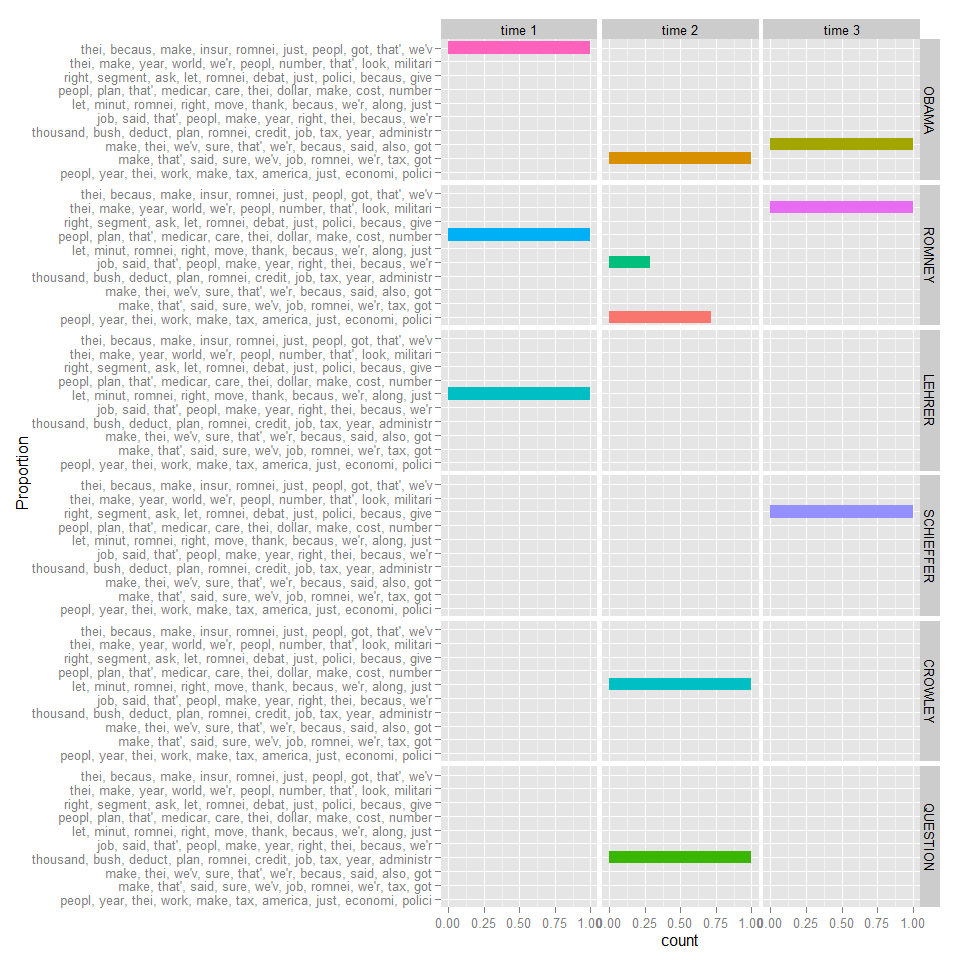
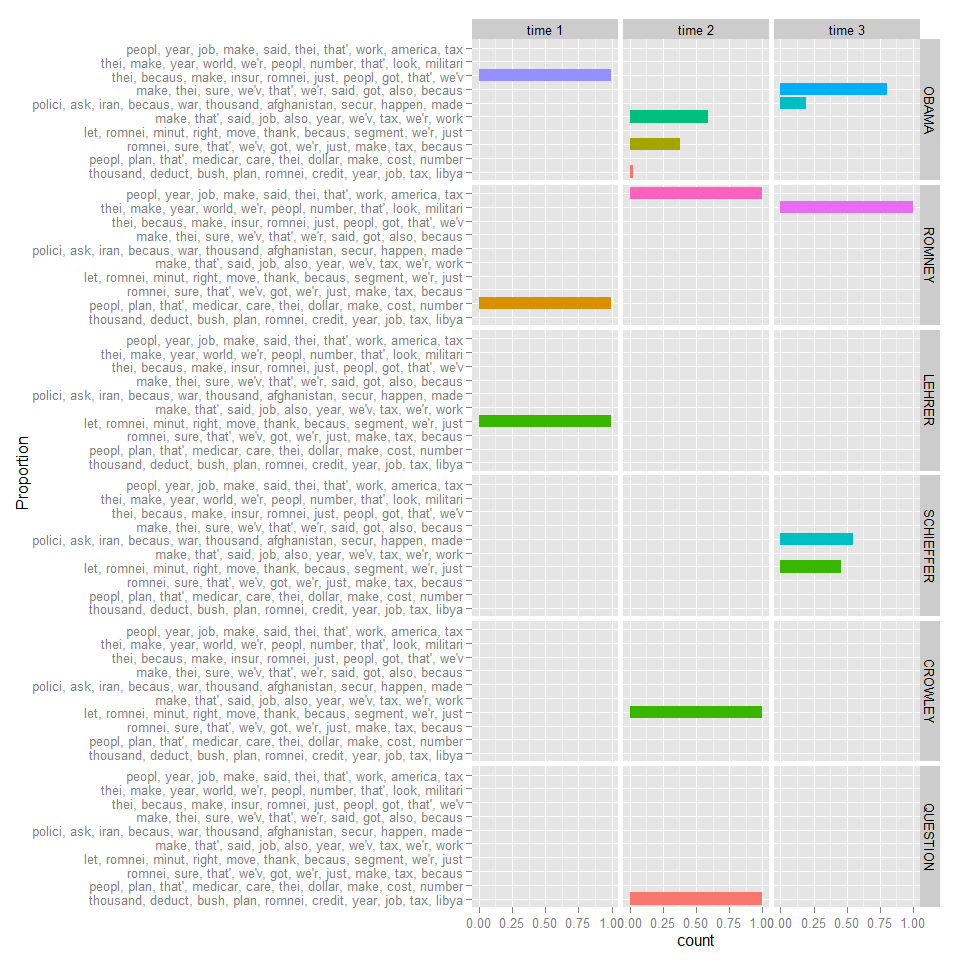
set seed example for reproducibility

Changed region(s): [[0.0312, 0.0, 0.9688, 1.0], [0.6875, 0.0312, 0.75, 0.0625]]

diff --git a/README.md b/README.md
@@ -333,7 +333,7 @@ parameters/hyper-parameters are selected with little regard to analysis.
         prep_stopwords() 
 
     ## Create the DocumentTermMatrix
-    doc_term_mat <- pres_debates2012 %>%
+    doc_term_mat <- presidential_debates_2012 %>%
         with(q_dtm_stem(dialogue, paste(person, time, sep = "_"))) %>%           
         remove_stopwords(stops) %>%                                                    
         filter_tf_idf() %>%
@@ -341,7 +341,7 @@ parameters/hyper-parameters are selected with little regard to analysis.
         filter_documents() 
 
     ## Run the Model
-    lda_model <- topicmodels::LDA(doc_term_mat, 10)
+    lda_model <- topicmodels::LDA(doc_term_mat, 10, control = list(seed=100))
 
     ## Plot the Topics Per Person_Time
     topics <- posterior(lda_model, doc_term_mat)$topics
@@ -407,7 +407,7 @@ significantly less code.
 
     difftime(Sys.time(), tic)
 
-    ## Time difference of 5.573452 secs
+    ## Time difference of 6.870893 secs
 
     ## gofastr Timing
     tic <- Sys.time()
@@ -422,7 +422,7 @@ significantly less code.
 
     difftime(Sys.time(), tic)
 
-    ## Time difference of 1.129797 secs
+    ## Time difference of 1.462083 secs
 
 ### With Stemming
 
@@ -454,7 +454,7 @@ significantly less code.
 
     difftime(Sys.time(), tic)
 
-    ## Time difference of 6.371552 secs
+    ## Time difference of 7.337727 secs
 
     ## gofastr Timing
     tic <- Sys.time()
@@ -469,4 +469,4 @@ significantly less code.
 
     difftime(Sys.time(), tic)
 
-    ## Time difference of 0.9026341 secs
+    ## Time difference of 1.364971 secs
